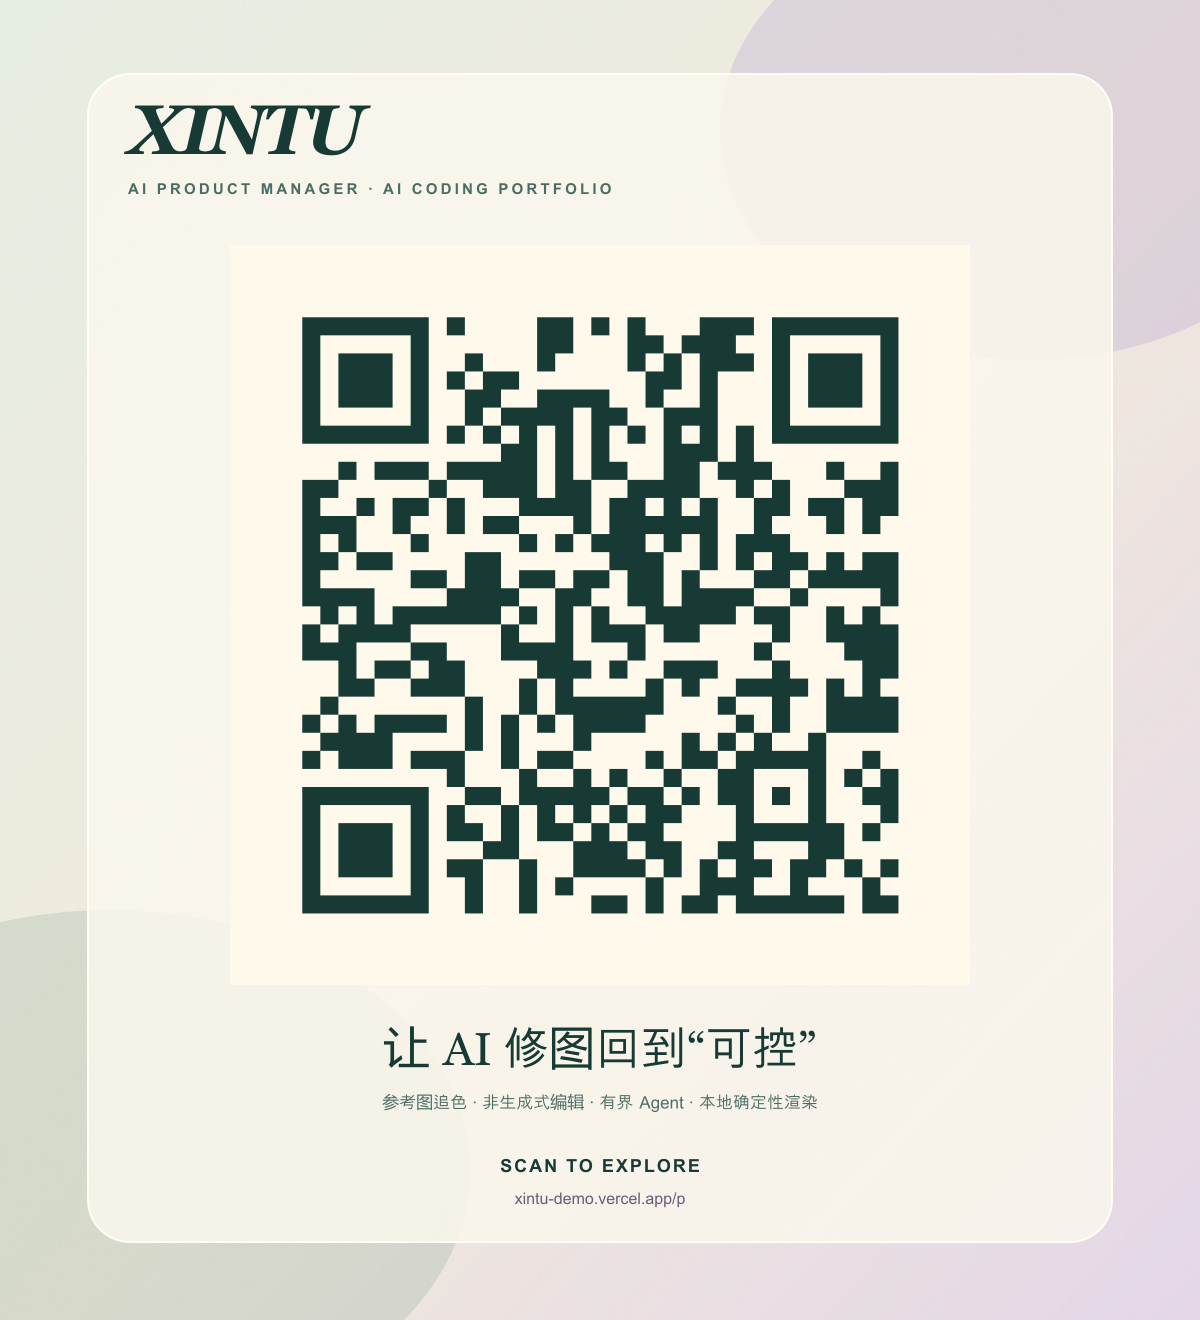
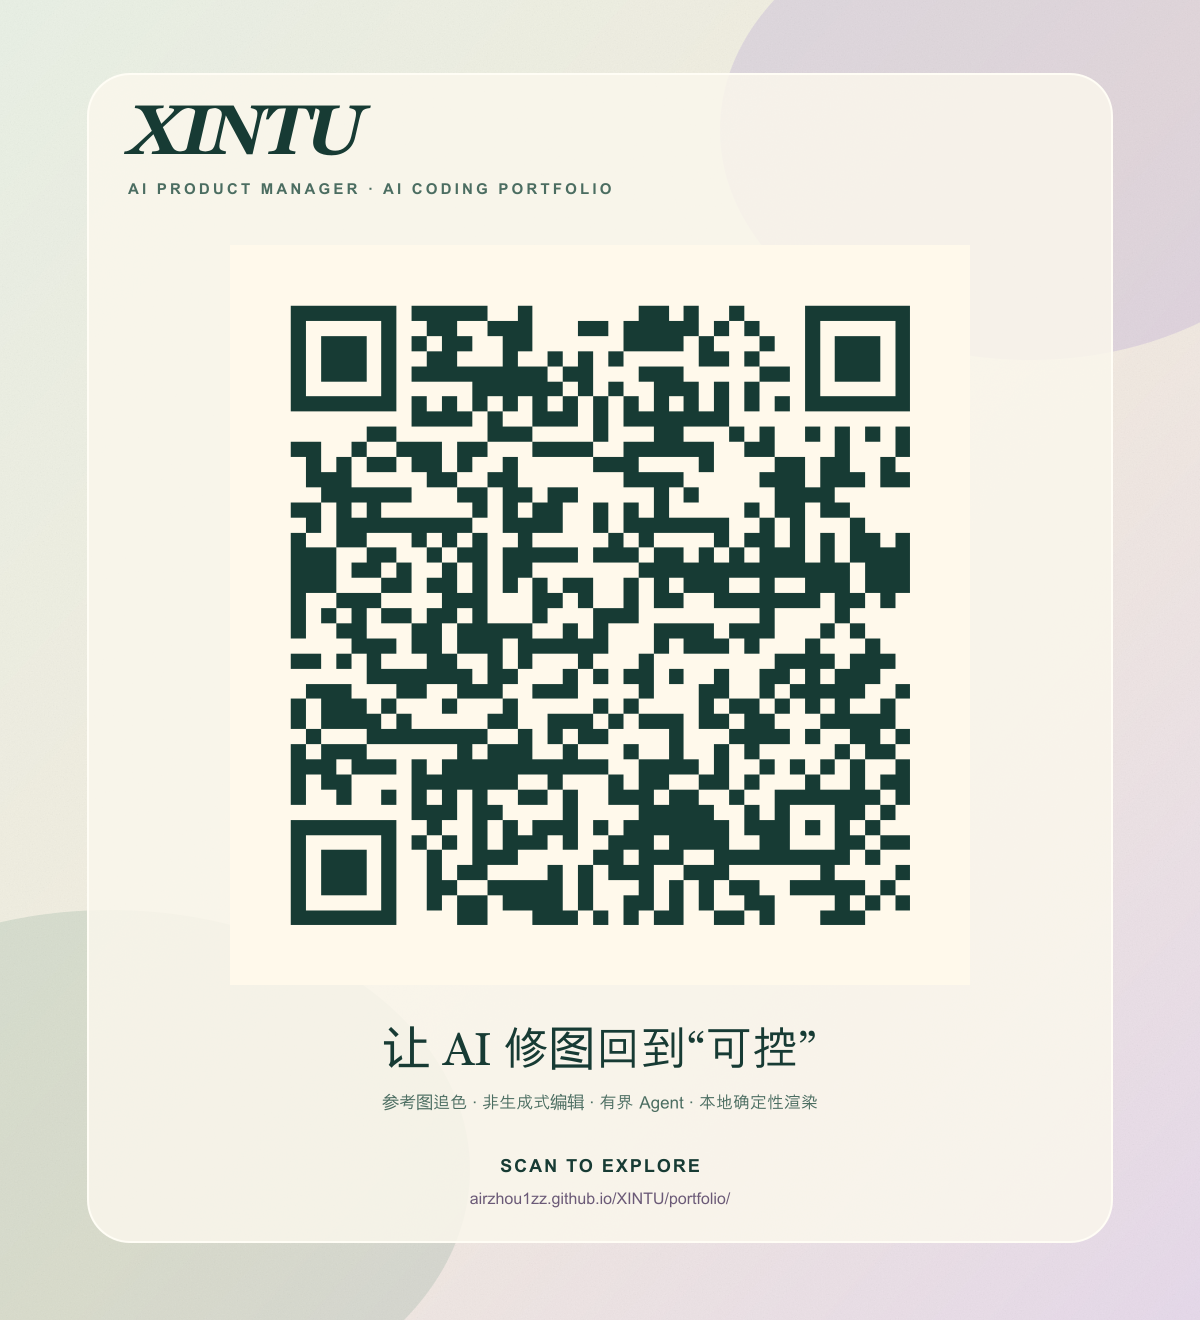
Add China-accessible GitHub Pages portfolio fallback

Changed region(s): [[0.2158, 0.2174, 0.7708, 0.7144], [0.4008, 0.9008, 0.5858, 0.9318]]

diff --git a/components/portfolio/xintu-portfolio.tsx b/components/portfolio/xintu-portfolio.tsx
@@ -23,6 +23,8 @@ import styles from "./xintu-portfolio.module.css";
 const demoUrl = "https://xintu-demo.vercel.app";
 const githubUrl = "https://github.com/AirZhou1zz/XINTU";
 const releaseUrl = "https://github.com/AirZhou1zz/XINTU/releases/tag/v0.1.0";
+const assetBase = process.env.NEXT_PUBLIC_PORTFOLIO_BASE_PATH ?? "";
+const portfolioAsset = (name: string) => `${assetBase}/portfolio/${name}`;
 
 const principles = [
   {
@@ -100,8 +102,8 @@ export function XintuPortfolio() {
           <a href="#boundary">边界</a>
         </nav>
 
-        <a className={styles.navCta} href={demoUrl} target="_blank" rel="noreferrer">
-          体验产品 <ArrowUpRight size={14} />
+        <a className={styles.navCta} href="#evidence">
+          查看证据 <ArrowDown size={14} />
         </a>
       </header>
 
@@ -124,11 +126,11 @@ export function XintuPortfolio() {
             </p>
 
             <div className={styles.heroActions}>
-              <a className={styles.primaryCta} href={demoUrl} target="_blank" rel="noreferrer">
-                体验完整产品 <ArrowUpRight size={16} />
+              <a className={styles.primaryCta} href="#evidence">
+                查看产品演示 <ArrowDown size={16} />
               </a>
-              <a className={styles.secondaryCta} href={githubUrl} target="_blank" rel="noreferrer">
-                查看 GitHub <GitBranch size={15} />
+              <a className={styles.secondaryCta} href={demoUrl} target="_blank" rel="noreferrer">
+                打开 Live Demo <ArrowUpRight size={15} />
               </a>
             </div>
 
@@ -153,7 +155,7 @@ export function XintuPortfolio() {
               </div>
               <div className={styles.previewMedia}>
                 <Image
-                  src="/portfolio/hero-demo.gif"
+                  src={portfolioAsset("hero-demo.gif")}
                   alt="XINTU 产品流程：上传照片、生成候选、对比和导出"
                   width={960}
                   height={540}
@@ -273,15 +275,15 @@ export function XintuPortfolio() {
 
           <div className={styles.fieldStrip}>
             <div className={styles.fieldPhoto}>
-              <Image src="/portfolio/portrait.webp" alt="人像测试场景" fill sizes="(max-width: 700px) 70vw, 30vw" />
+              <Image src={portfolioAsset("portrait.webp")} alt="人像测试场景" fill sizes="(max-width: 700px) 70vw, 30vw" />
               <span>PORTRAIT / SKIN TONE</span>
             </div>
             <div className={styles.fieldPhoto}>
-              <Image src="/portfolio/landscape.webp" alt="旅行风景测试场景" fill sizes="(max-width: 700px) 70vw, 30vw" />
+              <Image src={portfolioAsset("landscape.webp")} alt="旅行风景测试场景" fill sizes="(max-width: 700px) 70vw, 30vw" />
               <span>LANDSCAPE / SKY</span>
             </div>
             <div className={styles.fieldPhoto}>
-              <Image src="/portfolio/film.webp" alt="电影感氛围测试场景" fill sizes="(max-width: 700px) 70vw, 30vw" />
+              <Image src={portfolioAsset("film.webp")} alt="电影感氛围测试场景" fill sizes="(max-width: 700px) 70vw, 30vw" />
               <span>FILM / MEMORY</span>
             </div>
             <div className={styles.fieldCopy}>
@@ -296,7 +298,7 @@ export function XintuPortfolio() {
           <div className={styles.evidenceVisual}>
             <a href={demoUrl} target="_blank" rel="noreferrer" aria-label="打开 XINTU 在线 Demo">
               <Image
-                src="/portfolio/live-qwen-export.png"
+                src={portfolioAsset("live-qwen-export.png")}
                 alt="XINTU 使用 Qwen 3.8 完成真实调色与导出的界面"
                 width={1280}
                 height={720}
@@ -424,8 +426,12 @@ export function XintuPortfolio() {
             </p>
           </div>
           <div className={styles.finalActions}>
+            <a href="#workflow">
+              <span>查看产品工作流</span>
+              <ArrowDown size={20} />
+            </a>
             <a href={demoUrl} target="_blank" rel="noreferrer">
-              <span>打开在线 Demo</span>
+              <span>打开 Live Demo</span>
               <ArrowUpRight size={20} />
             </a>
             <a href={githubUrl} target="_blank" rel="noreferrer">

diff --git a/app/portfolio/page.tsx b/app/portfolio/page.tsx
@@ -1,10 +1,10 @@
 import type { Metadata, Viewport } from "next";
 import { XintuPortfolio } from "@/components/portfolio/xintu-portfolio";
 
-const portfolioUrl = "https://xintu-demo.vercel.app/portfolio";
+const portfolioUrl = "https://airzhou1zz.github.io/XINTU/portfolio/";
 
 export const metadata: Metadata = {
-  metadataBase: new URL("https://xintu-demo.vercel.app"),
+  metadataBase: new URL("https://airzhou1zz.github.io"),
   title: "XINTU · AI Product Manager Portfolio",
   description: "从一个有边界的图像 Agent，到一个可以运行、评估和复现的 AI 修图产品。XINTU AI 产品经理 / AI Coding 作品集。",
   alternates: { canonical: portfolioUrl },
@@ -16,7 +16,7 @@ export const metadata: Metadata = {
     siteName: "XINTU",
     images: [
       {
-        url: "/portfolio/portfolio-og.png",
+        url: "https://airzhou1zz.github.io/XINTU/portfolio/portfolio-og.png",
         width: 1280,
         height: 640,
         alt: "XINTU AI Product Manager Portfolio",
@@ -27,7 +27,7 @@ export const metadata: Metadata = {
     card: "summary_large_image",
     title: "XINTU · AI Product Manager Portfolio",
     description: "让 AI 修图回到可控：一个非生成式的有界图像 Agent。",
-    images: ["/portfolio/portfolio-og.png"],
+    images: ["https://airzhou1zz.github.io/XINTU/portfolio/portfolio-og.png"],
   },
   robots: { index: true, follow: true },
 };

diff --git a/README.md b/README.md
@@ -2,7 +2,7 @@
 
 ### Reference-based AI color grading that never generates pixels.
 
-[English](README.md) · [简体中文](README.zh-CN.md) · [Recruiter portfolio](https://xintu-demo.vercel.app/portfolio)
+[English](README.md) · [简体中文](README.zh-CN.md) · [Recruiter portfolio](https://airzhou1zz.github.io/XINTU/portfolio/)
 
 [![CI](https://github.com/AirZhou1zz/XINTU/actions/workflows/ci.yml/badge.svg?branch=main)](https://github.com/AirZhou1zz/XINTU/actions/workflows/ci.yml)
 [![License: MIT](https://img.shields.io/badge/license-MIT-3d6b57.svg)](LICENSE)
@@ -14,7 +14,7 @@
 **XINTU is a bounded image-agent experiment for reference-based color grading.** The model interprets the image and the requested look, plans a small set of grading operations, and emits structured parameters. The original pixels are rendered locally with Canvas 2D. It does not generate a new scene, replace the sky, or alter a person's identity.
 
 <p>
-  <a href="https://xintu-demo.vercel.app/portfolio"><strong>AI PM portfolio</strong></a>
+  <a href="https://airzhou1zz.github.io/XINTU/portfolio/"><strong>AI PM portfolio</strong></a>
   ·
   <a href="https://xintu-demo.vercel.app"><strong>Try the free demo</strong></a>
   ·
@@ -27,7 +27,7 @@
 
 ## Recruiter portfolio
 
-A mobile-first case study is available at [xintu-demo.vercel.app/portfolio](https://xintu-demo.vercel.app/portfolio). The print-ready QR card is available at [docs/resume-qr-card.png](docs/resume-qr-card.png).
+A mobile-first case study is available at [airzhou1zz.github.io/XINTU/portfolio/](https://airzhou1zz.github.io/XINTU/portfolio/). The print-ready QR card is available at [docs/resume-qr-card.png](docs/resume-qr-card.png).
 
 ## Why XINTU?
 

diff --git a/README.zh-CN.md b/README.zh-CN.md
@@ -2,7 +2,7 @@
 
 ### 基于参考图的 AI 调色 Agent，不生成任何新像素。
 
-[English](README.md) · [简体中文](README.zh-CN.md) · [招聘作品集](https://xintu-demo.vercel.app/portfolio)
+[English](README.md) · [简体中文](README.zh-CN.md) · [招聘作品集](https://airzhou1zz.github.io/XINTU/portfolio/)
 
 [![CI](https://github.com/AirZhou1zz/XINTU/actions/workflows/ci.yml/badge.svg?branch=main)](https://github.com/AirZhou1zz/XINTU/actions/workflows/ci.yml)
 [![License: MIT](https://img.shields.io/badge/license-MIT-3d6b57.svg)](LICENSE)
@@ -14,7 +14,7 @@
 **XINTU 是一个有边界的图像 Agent 实验：AI 理解画面与参考意图，规划少量调色工具并输出结构化参数；最终由浏览器中的 Canvas 2D 对原始像素进行确定性渲染。** 它不生成新场景、不替换天空、不改变人物身份。
 
 <p>
-  <a href="https://xintu-demo.vercel.app/portfolio"><strong>AI 产品经理作品集</strong></a>
+  <a href="https://airzhou1zz.github.io/XINTU/portfolio/"><strong>AI 产品经理作品集</strong></a>
   ·
   <a href="https://xintu-demo.vercel.app"><strong>免费体验公开 Demo</strong></a>
   ·
@@ -27,7 +27,7 @@
 
 ## 招聘作品集
 
-移动端优先的项目案例页：[xintu-demo.vercel.app/portfolio](https://xintu-demo.vercel.app/portfolio)。适合直接放进简历的二维码卡片：[docs/resume-qr-card.png](docs/resume-qr-card.png)。
+移动端优先的项目案例页：[airzhou1zz.github.io/XINTU/portfolio/](https://airzhou1zz.github.io/XINTU/portfolio/)。适合直接放进简历的二维码卡片：[docs/resume-qr-card.png](docs/resume-qr-card.png)。
 
 ## 为什么做 XINTU？
 

diff --git a/docs/marketing/repository-settings.md b/docs/marketing/repository-settings.md
@@ -11,7 +11,7 @@ Reference-based AI color grading agent for photos. Bounded planning, local Canva
 ## Website
 
 ```text
-https://xintu-demo.vercel.app/portfolio
+https://airzhou1zz.github.io/XINTU/portfolio/
 ```
 
 ## Topics
